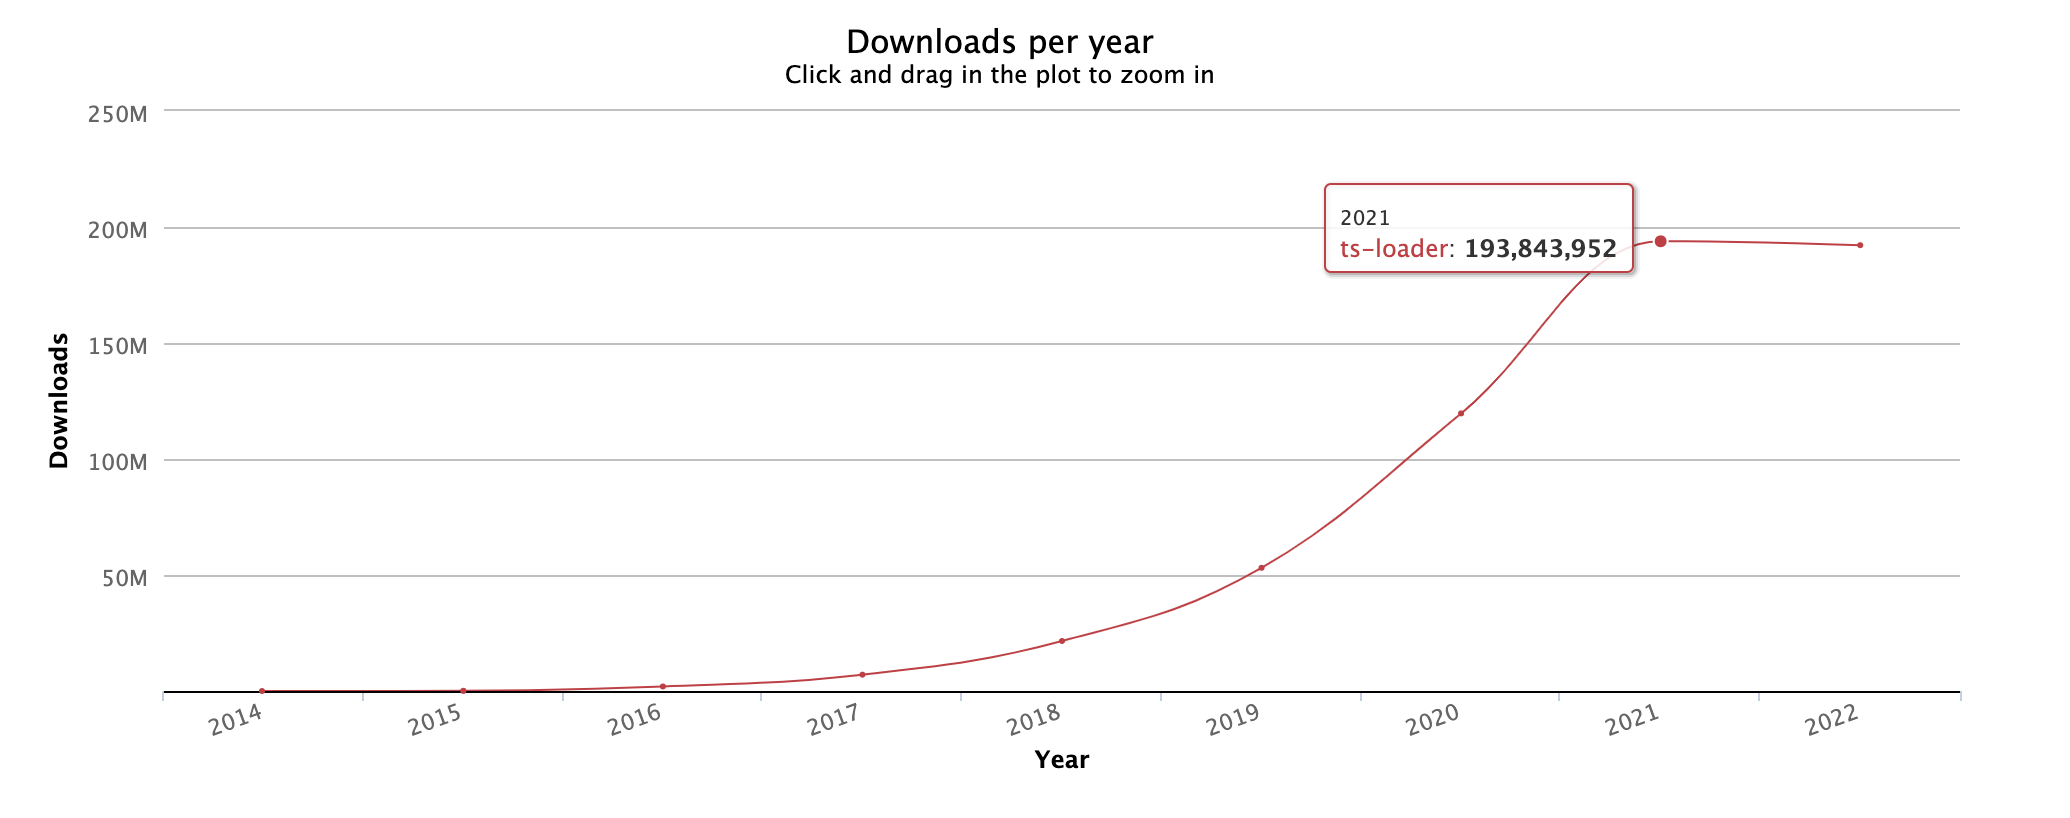
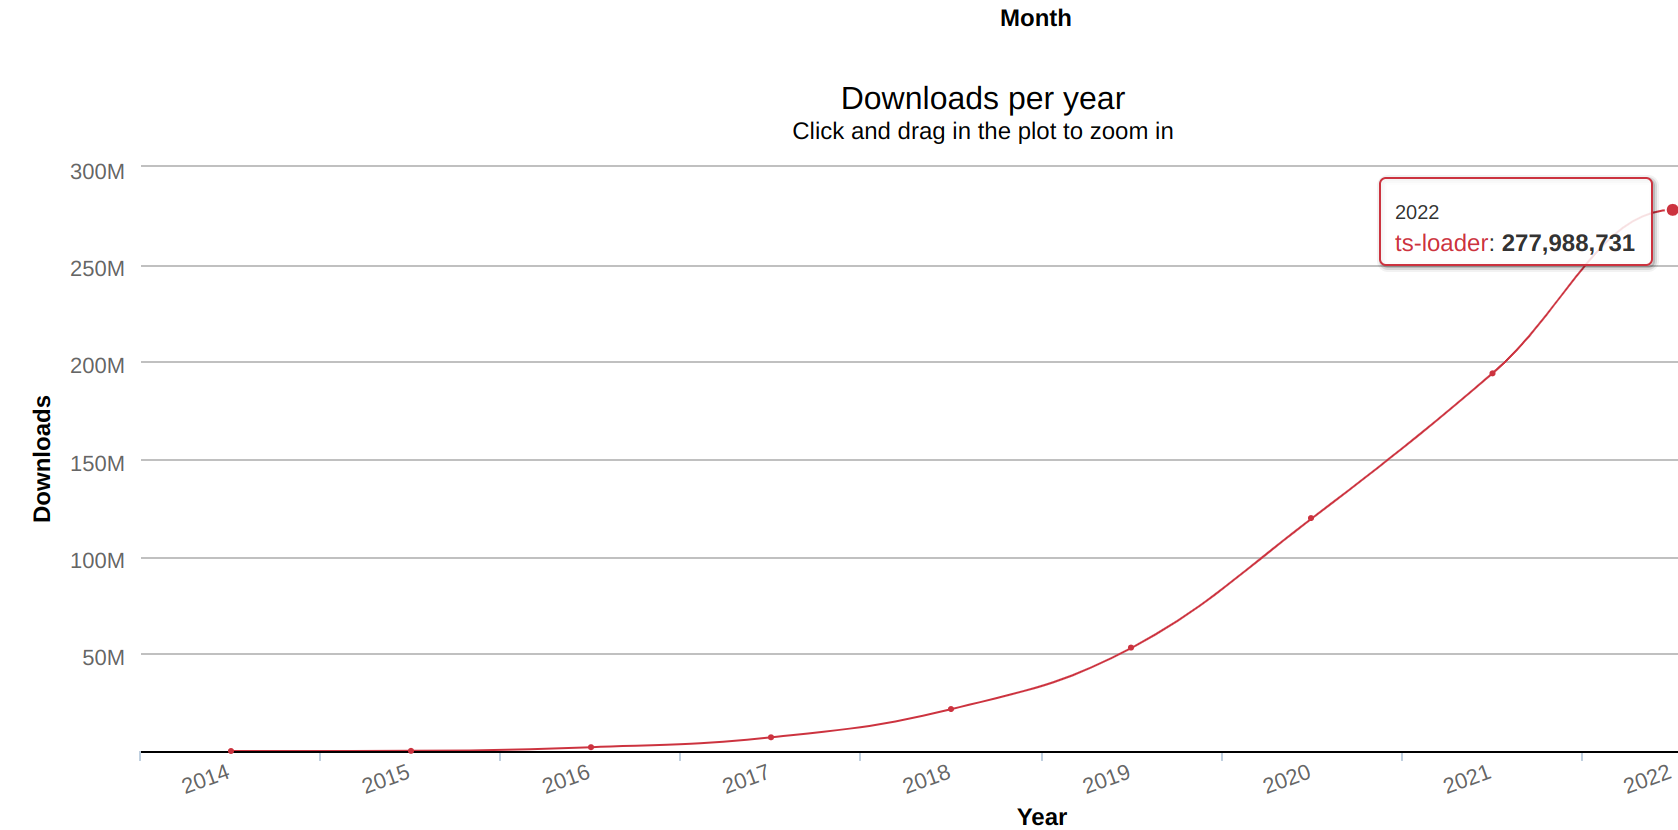
nits

diff --git a/README.md b/README.md
@@ -23,7 +23,7 @@ title: "Me and Open Source"
 
 ## Hi, I'm John.
 
-- I blog: https://blog.johnnyreilly.com
+- I blog: https://johnnyreilly.com
 - I OSS: https://github.com/johnnyreilly
 - I tweet: https://twitter.com/johnny_reilly
 - I toot(?): https://fosstodon.org/@johnny_reilly
@@ -141,7 +141,7 @@ https://en.wikipedia.org/wiki/GitHub
 <li>Very nervous - imposter syndrome</li>
 <li>Docs - not "code"</li>
 <li>Paris</li>
-<li>Why am I telling you this?</li>
+<li>built my confidence</li>
 <li>driven by work usage</li>
 </ul>
 </aside>
@@ -197,7 +197,7 @@ https://johnnyreilly.com/definitely-typed-the-movie
 ### 2022: `ts-loader`
 
 - From ~5 million downloads per year
-- To ~200 million downloads per year
+- To ~270 million downloads per year
 
 <a href="https://npm-stat.com/charts.html?package=ts-loader&from=2014-01-20&to=2022-09-20"><img src="ts-loader-downloads.png" alt="keep calm I'm a caretaker" /></a>
 
